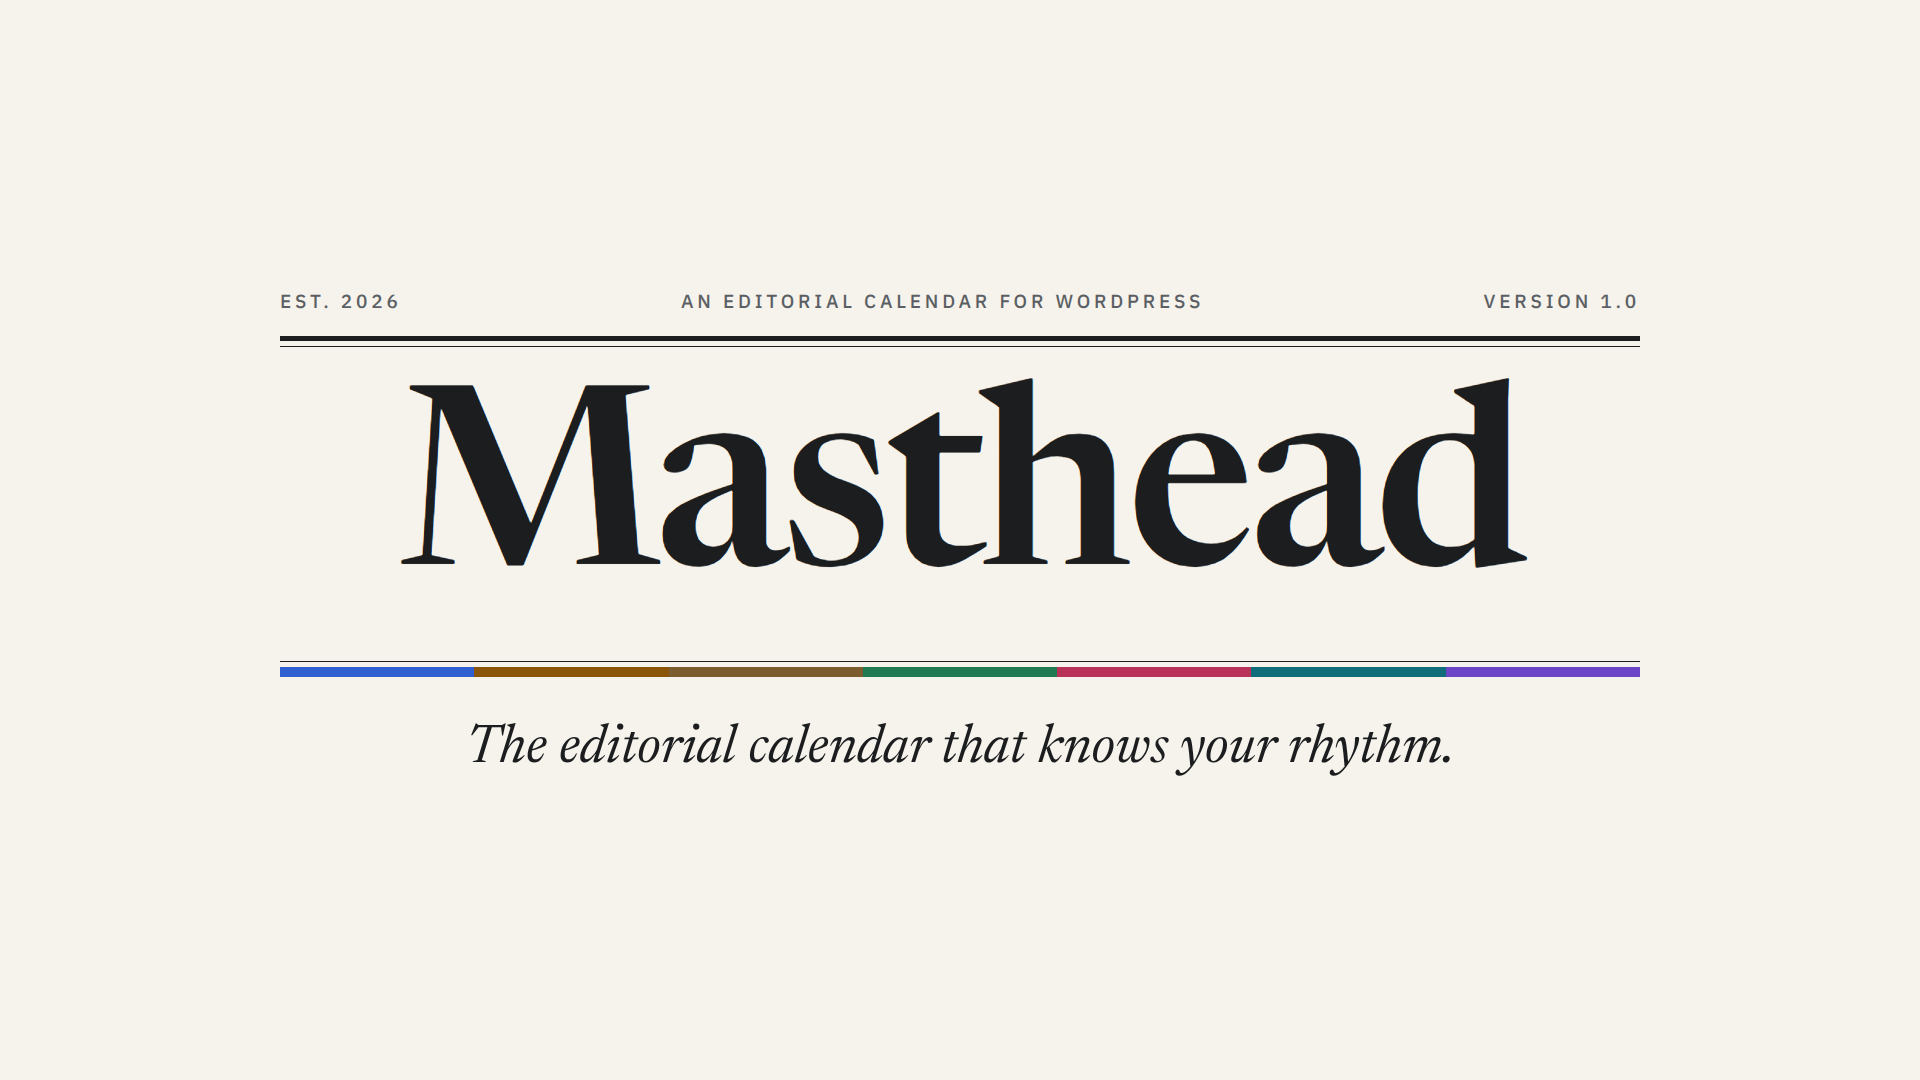
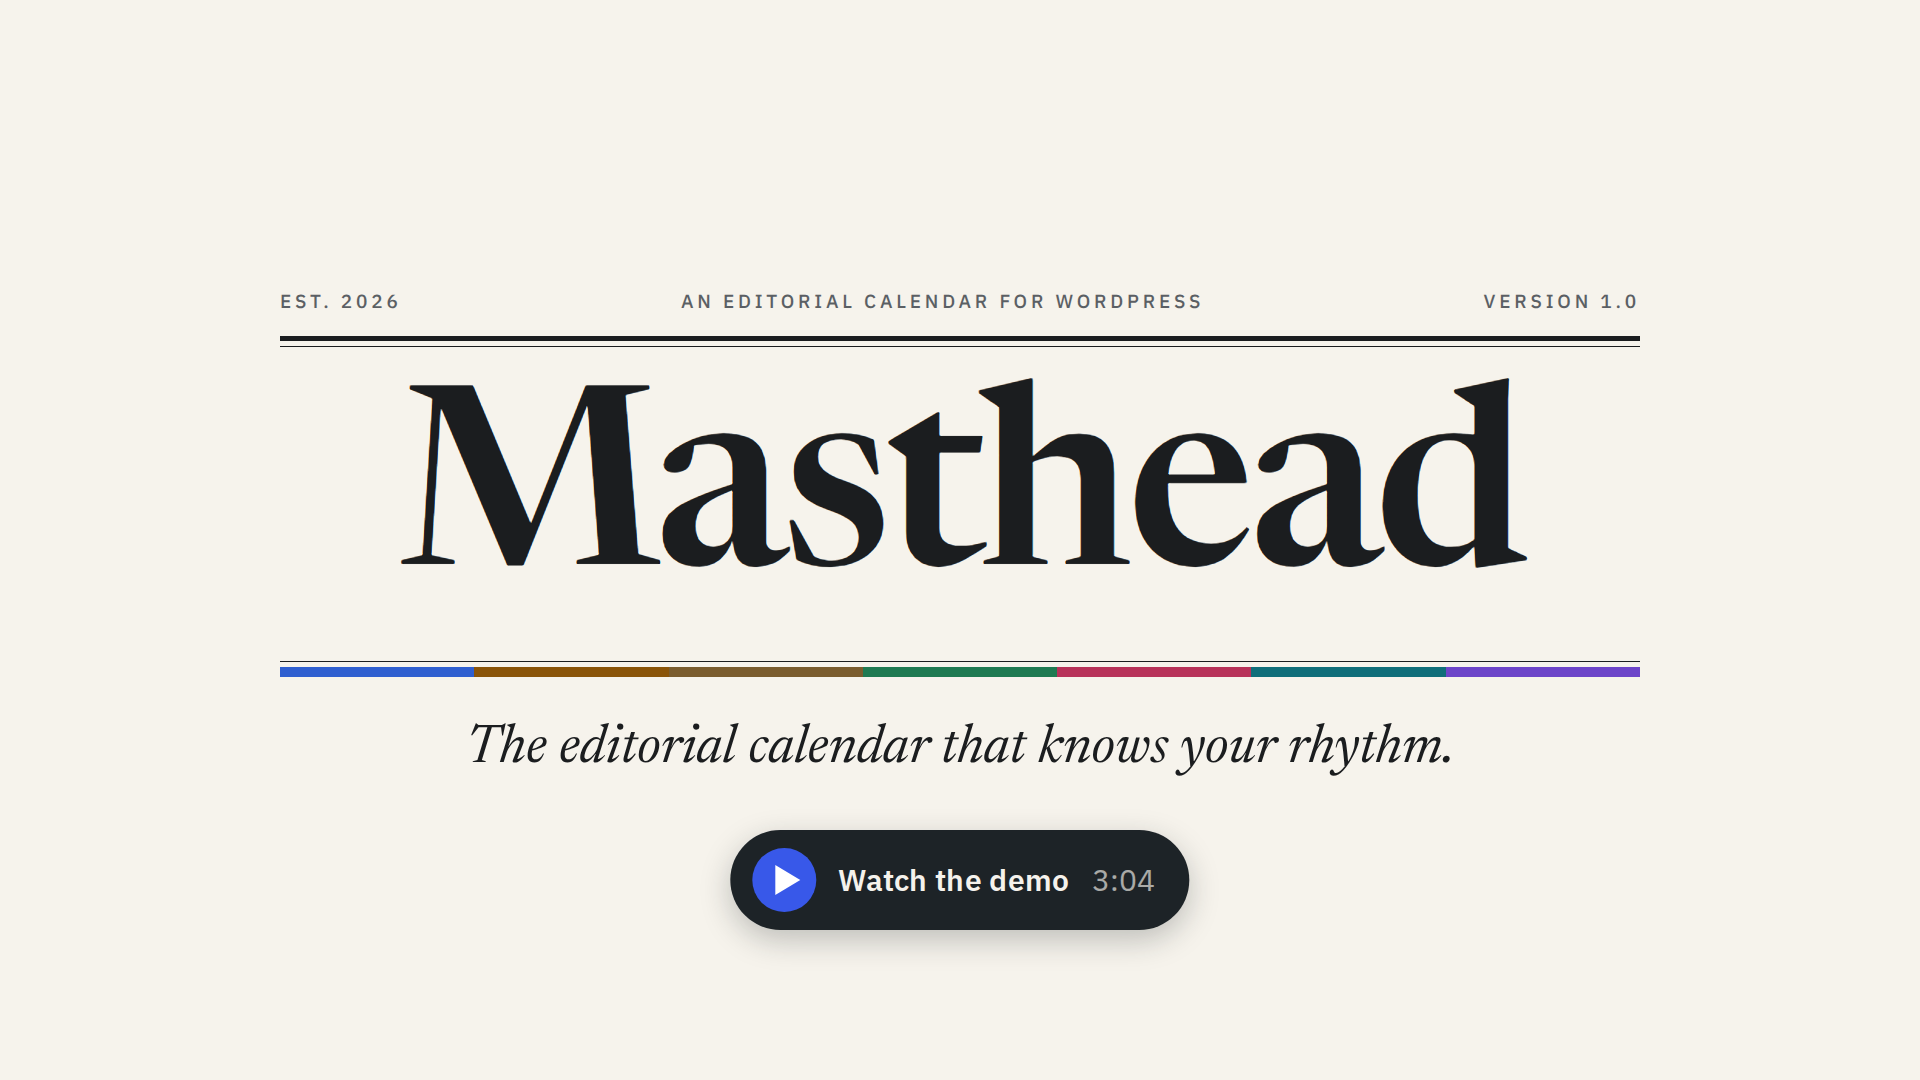
DEMO-05: Series reason names the part, not the weekday; poster with a play button
Goal: The series suggestion read "Thursday is due around Nov 17 (every 2
weeks). Part 3 isn't on the calendar." The weekday placeholder made the day
the subject. It now reads "Part 3 is due around Nov 17 (every 2 weeks) and
isn't on the calendar yet." The demo poster was the bare title card, which
looked like a banner; it now carries a "Watch the demo 3:04" play pill.

Tests: ReasonsTest::test_series_reason_names_cadence_and_part updated to the
new wording; composer test:unit 319 passed, composer lint clean. Nothing else
asserts the series wording (grep of client, tests/js, tests/e2e). The demo
stills were re-shot (demo/capture.mjs), demo/index.html rebuilt, and the
video re-rendered with unchanged narration: 3:04.1, mastered to -16 LUFS.
README screenshots regenerated with npm run screenshots.

Interpretation: The weekday is already in the Desk header ("Thursday, Nov 19
· Technical series lane"), so the reason doesn't need it.

Manual check: Frame at 68.8 s of demo/renders/masthead-demo.mp4 shows the
new series line.

Changed region(s): [[0.375, 0.7639, 0.625, 0.8861]]

diff --git a/demo/index.html b/demo/index.html
@@ -326,7 +326,7 @@
 </span><span class="out">| 2026-11-16 | Mon     | business   | open   |       |                           |
 </span><span class="out">| 2026-11-17 | Tue     | technology | open   |       |                           |
 </span><span class="out">| 2026-11-18 | Wed     | standalone | open   |       |                           |
-</span><span class="out">| 2026-11-19 | Thu     | technology | draft  | 12474 | A Family Security Checkup |
+</span><span class="out">| 2026-11-19 | Thu     | technology | draft  | 12507 | A Family Security Checkup |
 </span><span class="out">| 2026-11-20 | Fri     | journal    | open   |       |                           |
 </span><span class="out">| 2026-11-21 | Sat     | fiction    | future | 3036  | The Mantle – Part 2 of 4  |
 </span><span class="out">+------------+---------+------------+--------+-------+---------------------------+

diff --git a/src/Desk/Reasons.php b/src/Desk/Reasons.php
@@ -46,12 +46,11 @@ class Reasons {
 				);
 			case 'series':
 				return sprintf(
-					/* translators: 1: weekday name, 2: expected date, 3: number of weeks, 4: part number. */
-					__( "%1\$s is due around %2\$s (every %3\$d weeks). Part %4\$d isn't on the calendar.", 'masthead' ),
-					$weekday,
+					/* translators: 1: part number, 2: expected date, 3: number of weeks. */
+					__( "Part %1\$d is due around %2\$s (every %3\$d weeks) and isn't on the calendar yet.", 'masthead' ),
+					(int) ( $data['part'] ?? 0 ),
 					$this->short_ymd( $data['expected'] ?? null ),
-					(int) ( $data['every_weeks'] ?? 0 ),
-					(int) ( $data['part'] ?? 0 )
+					(int) ( $data['every_weeks'] ?? 0 )
 				);
 			case 'reshare':
 				return sprintf(

diff --git a/tests/unit/Desk/ReasonsTest.php b/tests/unit/Desk/ReasonsTest.php
@@ -85,7 +85,7 @@ final class ReasonsTest extends TestCase {
 			'2026-12-07',
 			array( 'label' => 'Business' )
 		);
-		$this->assertSame( "Monday is due around Dec 7 (every 4 weeks). Part 2 isn't on the calendar.", $why );
+		$this->assertSame( "Part 2 is due around Dec 7 (every 4 weeks) and isn't on the calendar yet.", $why );
 	}
 
 	public function test_reshare_reason_contains_no_digit_other_than_the_date(): void {

diff --git a/CHANGELOG.md b/CHANGELOG.md
@@ -19,6 +19,7 @@ All notable changes to Masthead are recorded here. The format follows [Keep a Ch
 
 ### Fixed
 
+- The Desk's series reason named the lane's weekday as the thing that was due ("Thursday is due around Nov 17…"); it now reads "Part 3 is due around Nov 17 (every 2 weeks) and isn't on the calendar yet."
 - Categories without a stored colour showed grey everywhere: core's `sanitize_hex_color('')` returns `''`, not `null`, so the empty term meta was taken as a valid colour and the slug defaults and palette were never used.
 - Series planning meta (`masthead_cadence`, `masthead_lane_exception`) no longer appears in public `wp/v2/<series>` responses. With ttm-core's public `series` taxonomy those responses are the ones the theme uses. The keys are returned only when the request's `context` is `edit`, which needs the `edit_terms` capability; the Settings screen and the swap panel read and write them in that context, and writes are unchanged.
 
